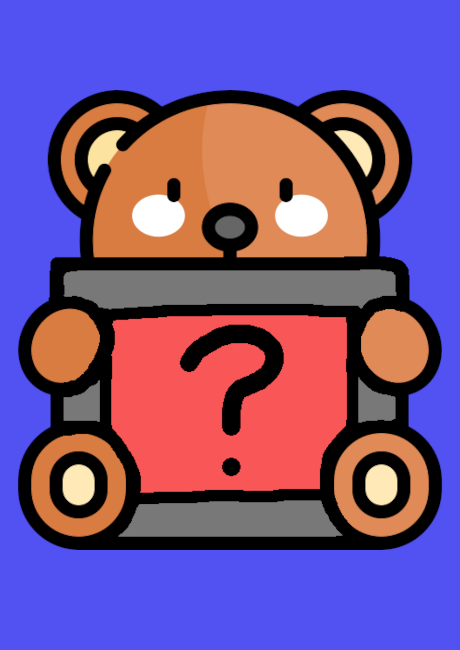
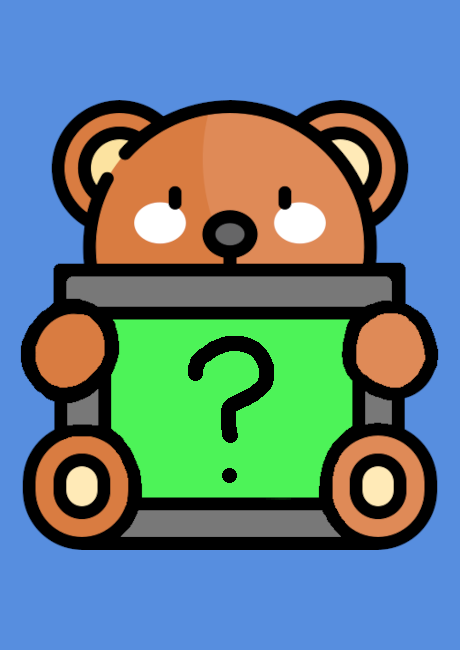
feat(home): add error display
fix(logo): cleaned up logo
fix: correct fallback image logic

diff --git a/src/home/AnimeEntry.jsx b/src/home/AnimeEntry.jsx
@@ -8,6 +8,7 @@ function AnimeEntry({info, homePageRef}) {
     const [nextLink, setNextLink] = useState("");
     const seasonalRef = useRef(null);
     const nextEpRef = useRef(null);
+    const [coverSource, setCoverSource] = useState(info.cover);
 
     function infoButtonClick() {
         setDetailed(!detailed);
@@ -57,6 +58,14 @@ function AnimeEntry({info, homePageRef}) {
         }
     }
 
+    function coverErrorHandler() {
+        setCoverSource("/default-cover.png");
+    }
+
+    function closeButtonHandler() {
+        setDetailed(false);
+    }
+
     return (<>
         <div className={`anime-entry ${detailed ? "detailed" : ""}`}
         >
@@ -64,14 +73,12 @@ function AnimeEntry({info, homePageRef}) {
             >
                 <NavLink to={`${nextLink}`}
                 >
-                    <picture>
-                        <source srcSet={info.cover}/>
-                        <img src={"/default-cover.png"}
-                             alt={"anime cover"}
-                             className={"poster"}
-                             loading={"lazy"}
-                        />
-                    </picture>
+                    <img src={coverSource}
+                         alt={"anime cover"}
+                         className={"poster"}
+                         loading={"lazy"}
+                         onError={coverErrorHandler}
+                    />
                 </NavLink>
                 <button className={"info-button"}
                         onClick={infoButtonClick}
@@ -127,9 +134,7 @@ function AnimeEntry({info, homePageRef}) {
                 >
                     <button type={"button"}
                             className={"close-button"}
-                            onClick={() => {
-                                setDetailed(false);
-                            }}
+                            onClick={closeButtonHandler}
                     >
                         Close
                     </button>

diff --git a/src/watch/WatchPage.jsx b/src/watch/WatchPage.jsx
@@ -12,6 +12,7 @@ function WatchPage() {
     const {anime, episode} = useParams();
     const navigate = useNavigate();
     const watchPageRef = useRef(null);
+    const [coverSource, setCoverSource] = useState("/default-cover.png");
 
     const changeEpisode = useCallback((number) => {
         if (number > animeInfo.episodes.length) {
@@ -37,6 +38,7 @@ function WatchPage() {
                 });
                 setAnimeInfo(info);
                 setLink(`/anime/${anime}/${((info.episodes ?? [])[episode - 1] ?? "")}`);
+                setCoverSource(info.cover);
             }
         });
         return () => {
@@ -109,6 +111,10 @@ function WatchPage() {
         };
     }, [anime, changeEpisode, episode]);
 
+    function coverErrorHandler() {
+        setCoverSource("/default-cover.png");
+    }
+
     return (<>
         <div id={"watch-page"}
              ref={watchPageRef}>
@@ -123,13 +129,11 @@ function WatchPage() {
             </div>
             <div id={"anime-info"}
             >
-                <picture>
-                    <source srcSet={animeInfo.cover}/>
-                    <img src={"/default-cover.png"}
-                         alt={"anime cover"}
-                         id={"side-cover"}
-                    />
-                </picture>
+                <img src={coverSource}
+                     alt={"anime cover"}
+                     id={"side-cover"}
+                     onError={coverErrorHandler}
+                />
                 {animeInfo.title}
             </div>
         </div>

diff --git a/src/home/HomePage.jsx b/src/home/HomePage.jsx
@@ -3,18 +3,25 @@ import {getIndex} from "../utils/jsonReader.js";
 import "./HomePage.css";
 import AnimeRow from "./AnimeRow.jsx";
 import {listUpdateEvent} from "./HomeEvents.js";
+import Error from "../app/Error.jsx";
 
 function HomePage() {
     const [animeList, setAnimeList] = useState([]);
     const homePageRef = useRef(null);
     const [seasonal, setSeasonal] = useState([]);
     const [latest, setLatest] = useState([]);
+    const [error, setError] = useState(null);
 
     // load anime index on display
     useEffect(() => {
         let ignore = false;
         getIndex().then((index) => {
             if (!ignore) {
+                if (index === null) {
+                    setError(<Error message={"Could not access index contents."}/>);
+                    return;
+                }
+
                 setAnimeList(index.list);
 
                 setLatest(JSON.parse(localStorage.getItem("latest") ?? "[]").map((p) => {
@@ -64,6 +71,7 @@ function HomePage() {
         <div id={"home-page"}
              ref={homePageRef}
         >
+            {error}
             {latest.length !== 0 ? <AnimeRow elements={latest}
                                              oneLine={true}
                                              title={"Latest"}

diff --git a/src/app/Error.css b/src/app/Error.css
@@ -1,0 +1,32 @@
+.home-error {
+    display: flex;
+    flex-direction: row;
+    background-color: var(--black-l2);
+    border-style: dotted;
+    border-width: 5px;
+    border-color: var(--error);
+    padding: 10px;
+
+    .right-side {
+        padding: 0;
+        line-height: 0;
+
+        img {
+            height: 230px;
+            width: auto;
+        }
+    }
+
+    .left-side {
+        padding: 0 10px;
+
+        .error-title {
+            color: var(--error-l1);
+        }
+
+        .error-message {
+
+            color: var(--error-l2);
+        }
+    }
+}

diff --git a/src/app/Error.jsx b/src/app/Error.jsx
@@ -1,0 +1,24 @@
+import "./Error.css";
+
+function Error({message}) {
+    return (<div className={"home-error"}
+    >
+        <div className={"right-side"}
+        >
+            <img src={"/error-bear.png"} alt={"error icon"}/>
+        </div>
+        <div className={"left-side"}
+        >
+            <h1 className={"error-title"}
+            >
+                An error occured !
+            </h1>
+            <p className={"error-message"}
+            >
+                {message}
+            </p>
+        </div>
+    </div>);
+}
+
+export default Error;

diff --git a/src/app/index.css b/src/app/index.css
@@ -11,6 +11,10 @@
     --black-l2: #404040;
     --black-l1: #2a2a2a;
     --black: #000000;
+
+    --error: #C9000B;
+    --error-l1: #E61F20;
+    --error-l2: #F86161;
 }
 
 body {

diff --git a/src/home/HomePage.css b/src/home/HomePage.css
@@ -4,4 +4,5 @@
     width: 100%;
     flex-wrap: wrap;
     gap: 10px;
+    justify-content: center;
 }
